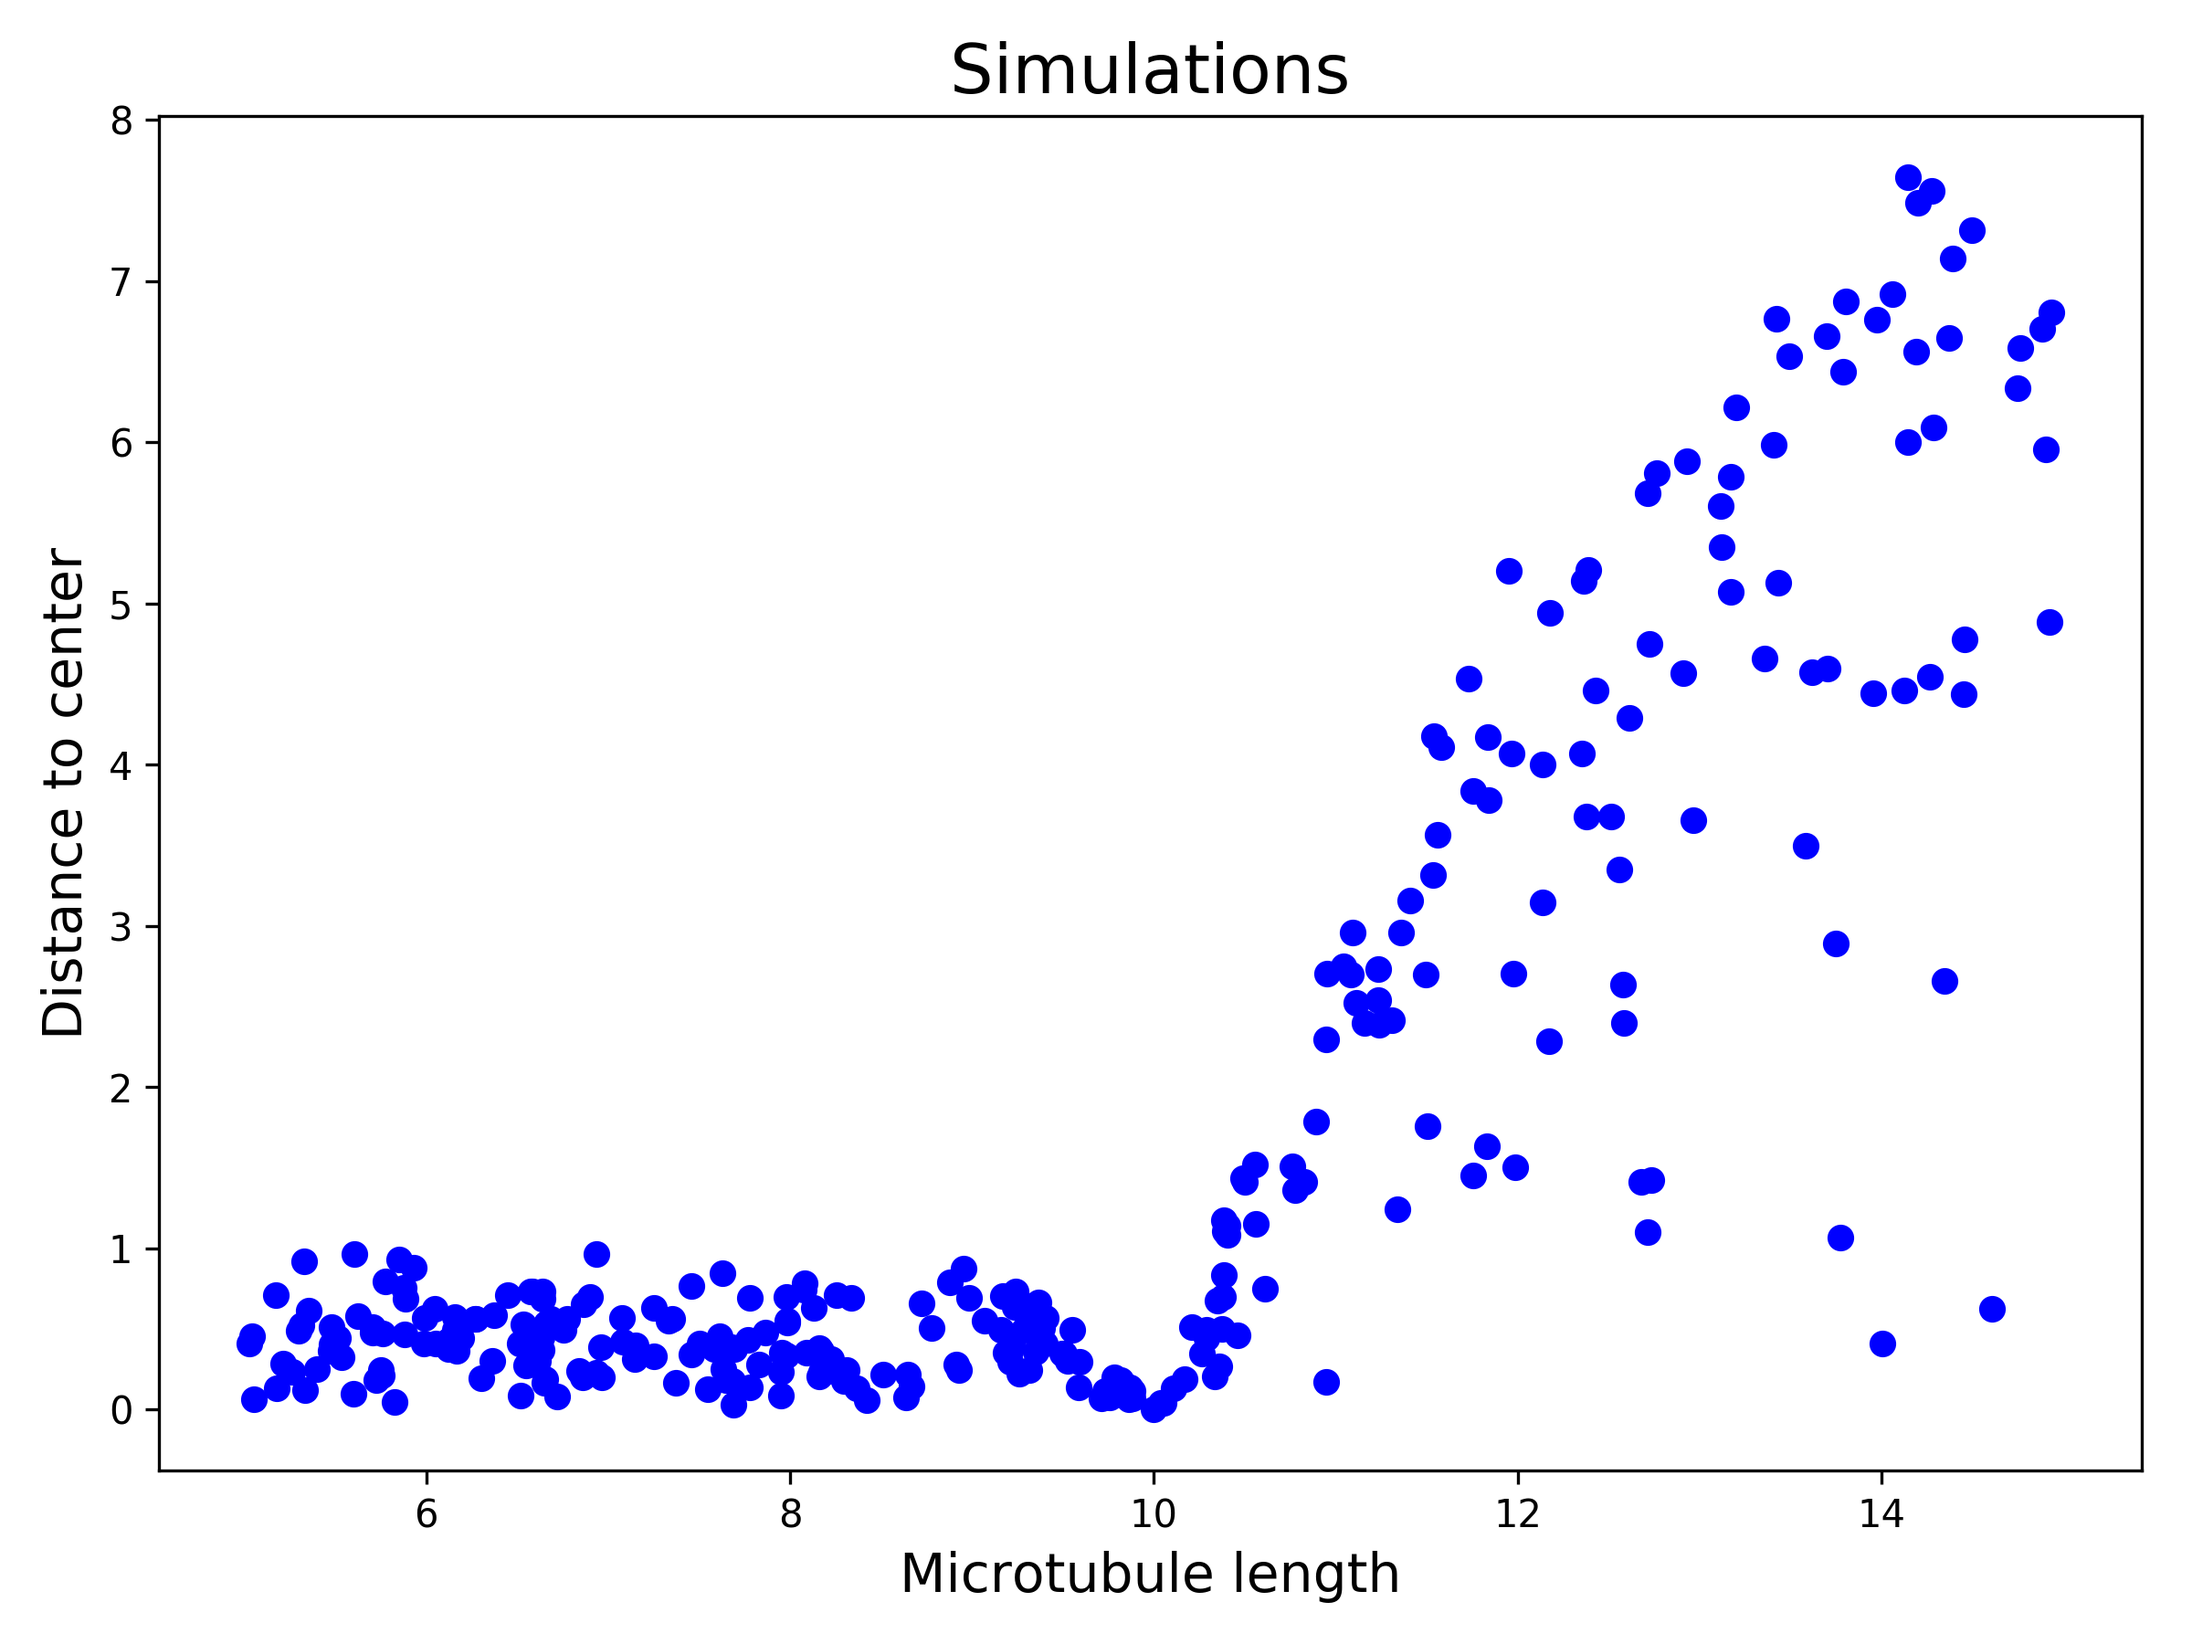
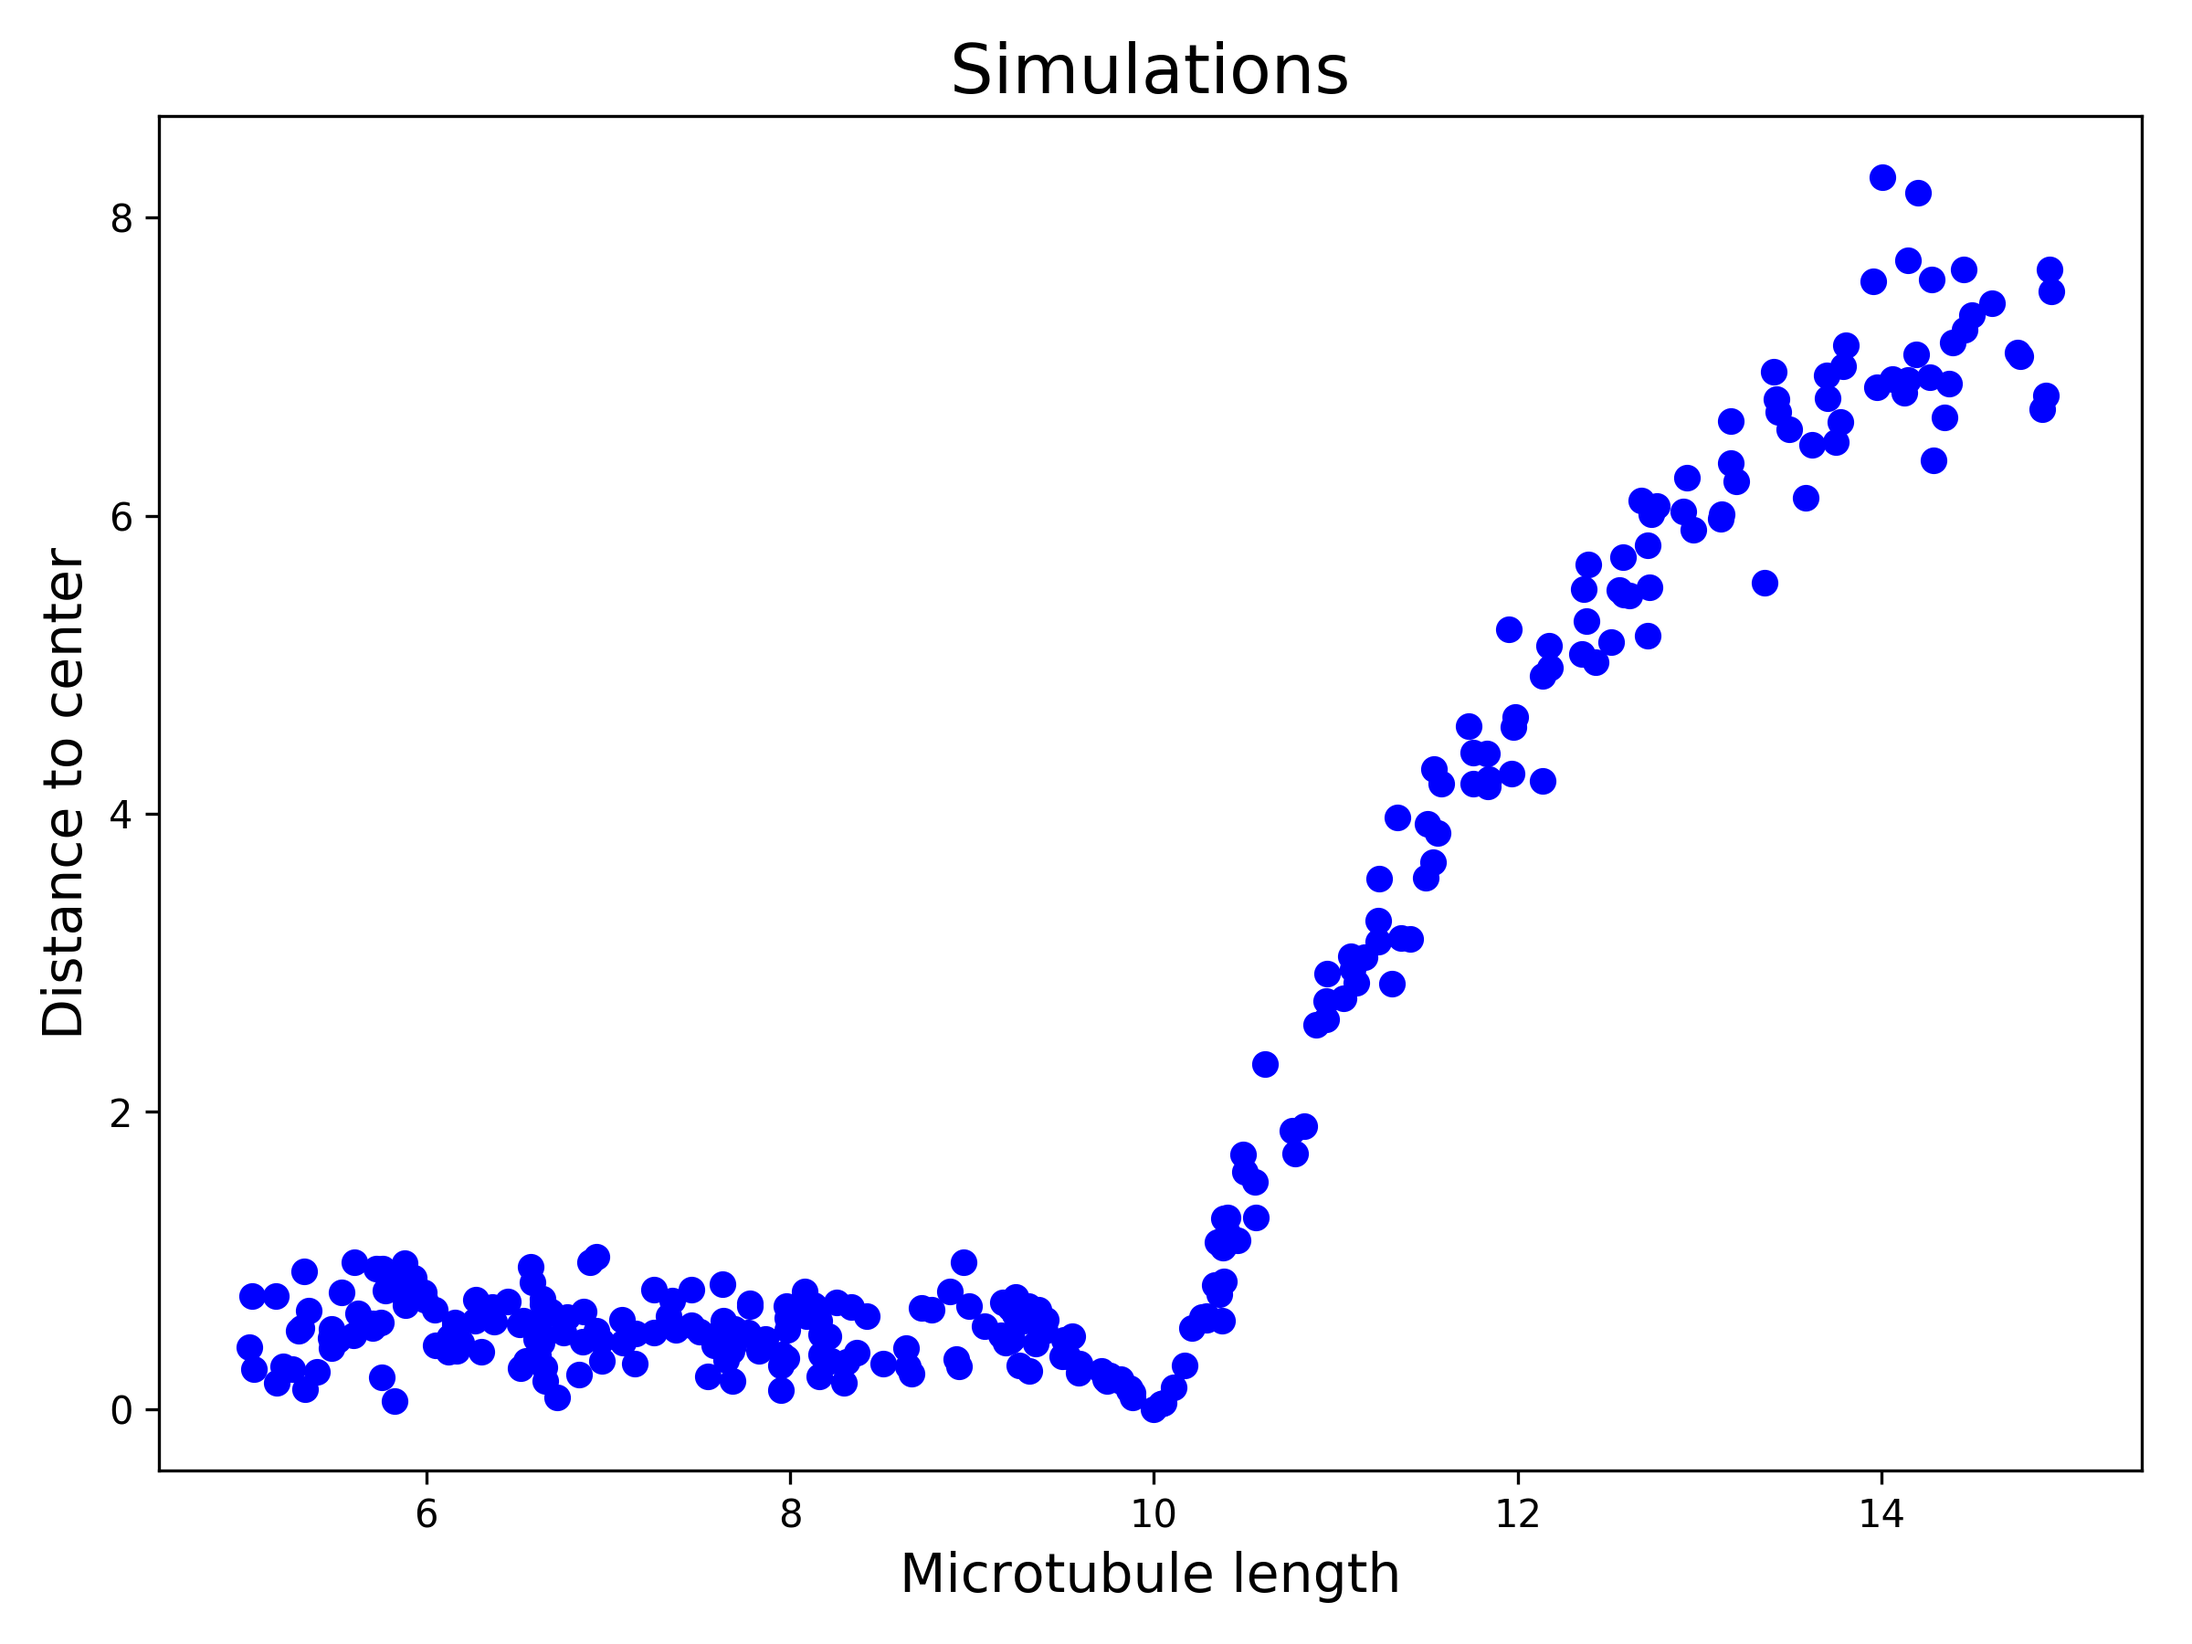
Version on which students could work already

diff --git a/ExerciseDay2/gogo2.py b/ExerciseDay2/gogo2.py
@@ -1,0 +1,70 @@
+
+
+import os, math
+import matplotlib.pyplot as plt
+
+#------------------------------------------------------------------------
+
+def makeplot(data,p):
+    fts = 14
+    fig = plt.figure(figsize=(8, 6))
+    ax = plt.gca()
+    # plot each data point with a symbol:
+    for pt in data:
+        ax.plot(pt[0], pt[1], 'o', color='blue')
+    for i,txt in enumerate(p):
+        pass
+        #ax.annotate(txt,(data[i][0], data[i][1]))
+
+    # label axes and put title:
+    plt.ylabel('Distance to center', fontsize=fts)
+    plt.xlabel('Microtubule length', fontsize=fts)
+    plt.title('Simulations', fontsize=fts+4)
+    fig.tight_layout()
+    
+#------------------------------------------------------------------------
+
+def process(path):
+    """ 
+        This extracts the data in one simulation directory
+        Assuming the current directory has already been adjusted
+    """
+    # get parameter value:
+    config_file = os.path.join(path,'config.cym')
+    aster_file = os.path.join(path,'aster.txt')
+    with open(config_file, 'r') as f:
+        line = f.readline()
+        #print(line)
+        pam = float(line[1:])
+        f.close()
+    # get position of aster:
+    with open(aster_file, 'r') as f:
+        for line in f:
+            if len(line)>3 and not line[0]=='%':
+                #print(line)
+                val = line.split()
+                x = float(val[2])
+                y = float(val[3])
+                z = float(val[4])
+                pos = math.sqrt(x*x+y*y+z*z)
+        f.close()
+    return (pam, pos)
+
+#------------------------------------------------------------------------
+parent_folder = 'scan'
+paths = os.listdir(parent_folder)
+paths2 = list()
+for i in paths:
+    if i[0:3]=='run':
+        paths2.append(os.path.join(parent_folder,i))
+res = list()
+print paths2
+for p in paths2:
+    val = process(p)
+    print("%s %f %f" % (p, val[0], val[1]) )
+    res.append(val)
+makeplot(res,paths)
+plt.savefig('plot', dpi=300)
+plt.show()
+plt.close()
+

diff --git a/ExerciseDay2/scan.py b/ExerciseDay2/scan.py
@@ -62,7 +62,7 @@ def main(args):
     """
     global executable
     try:
-        executable = sys.path[0] + '/' +args[0]
+        executable =  os.path.join(sys.path[0],args[0])
     except:
         out.write("Error: you should specify a command to execute\n")
         return 1
